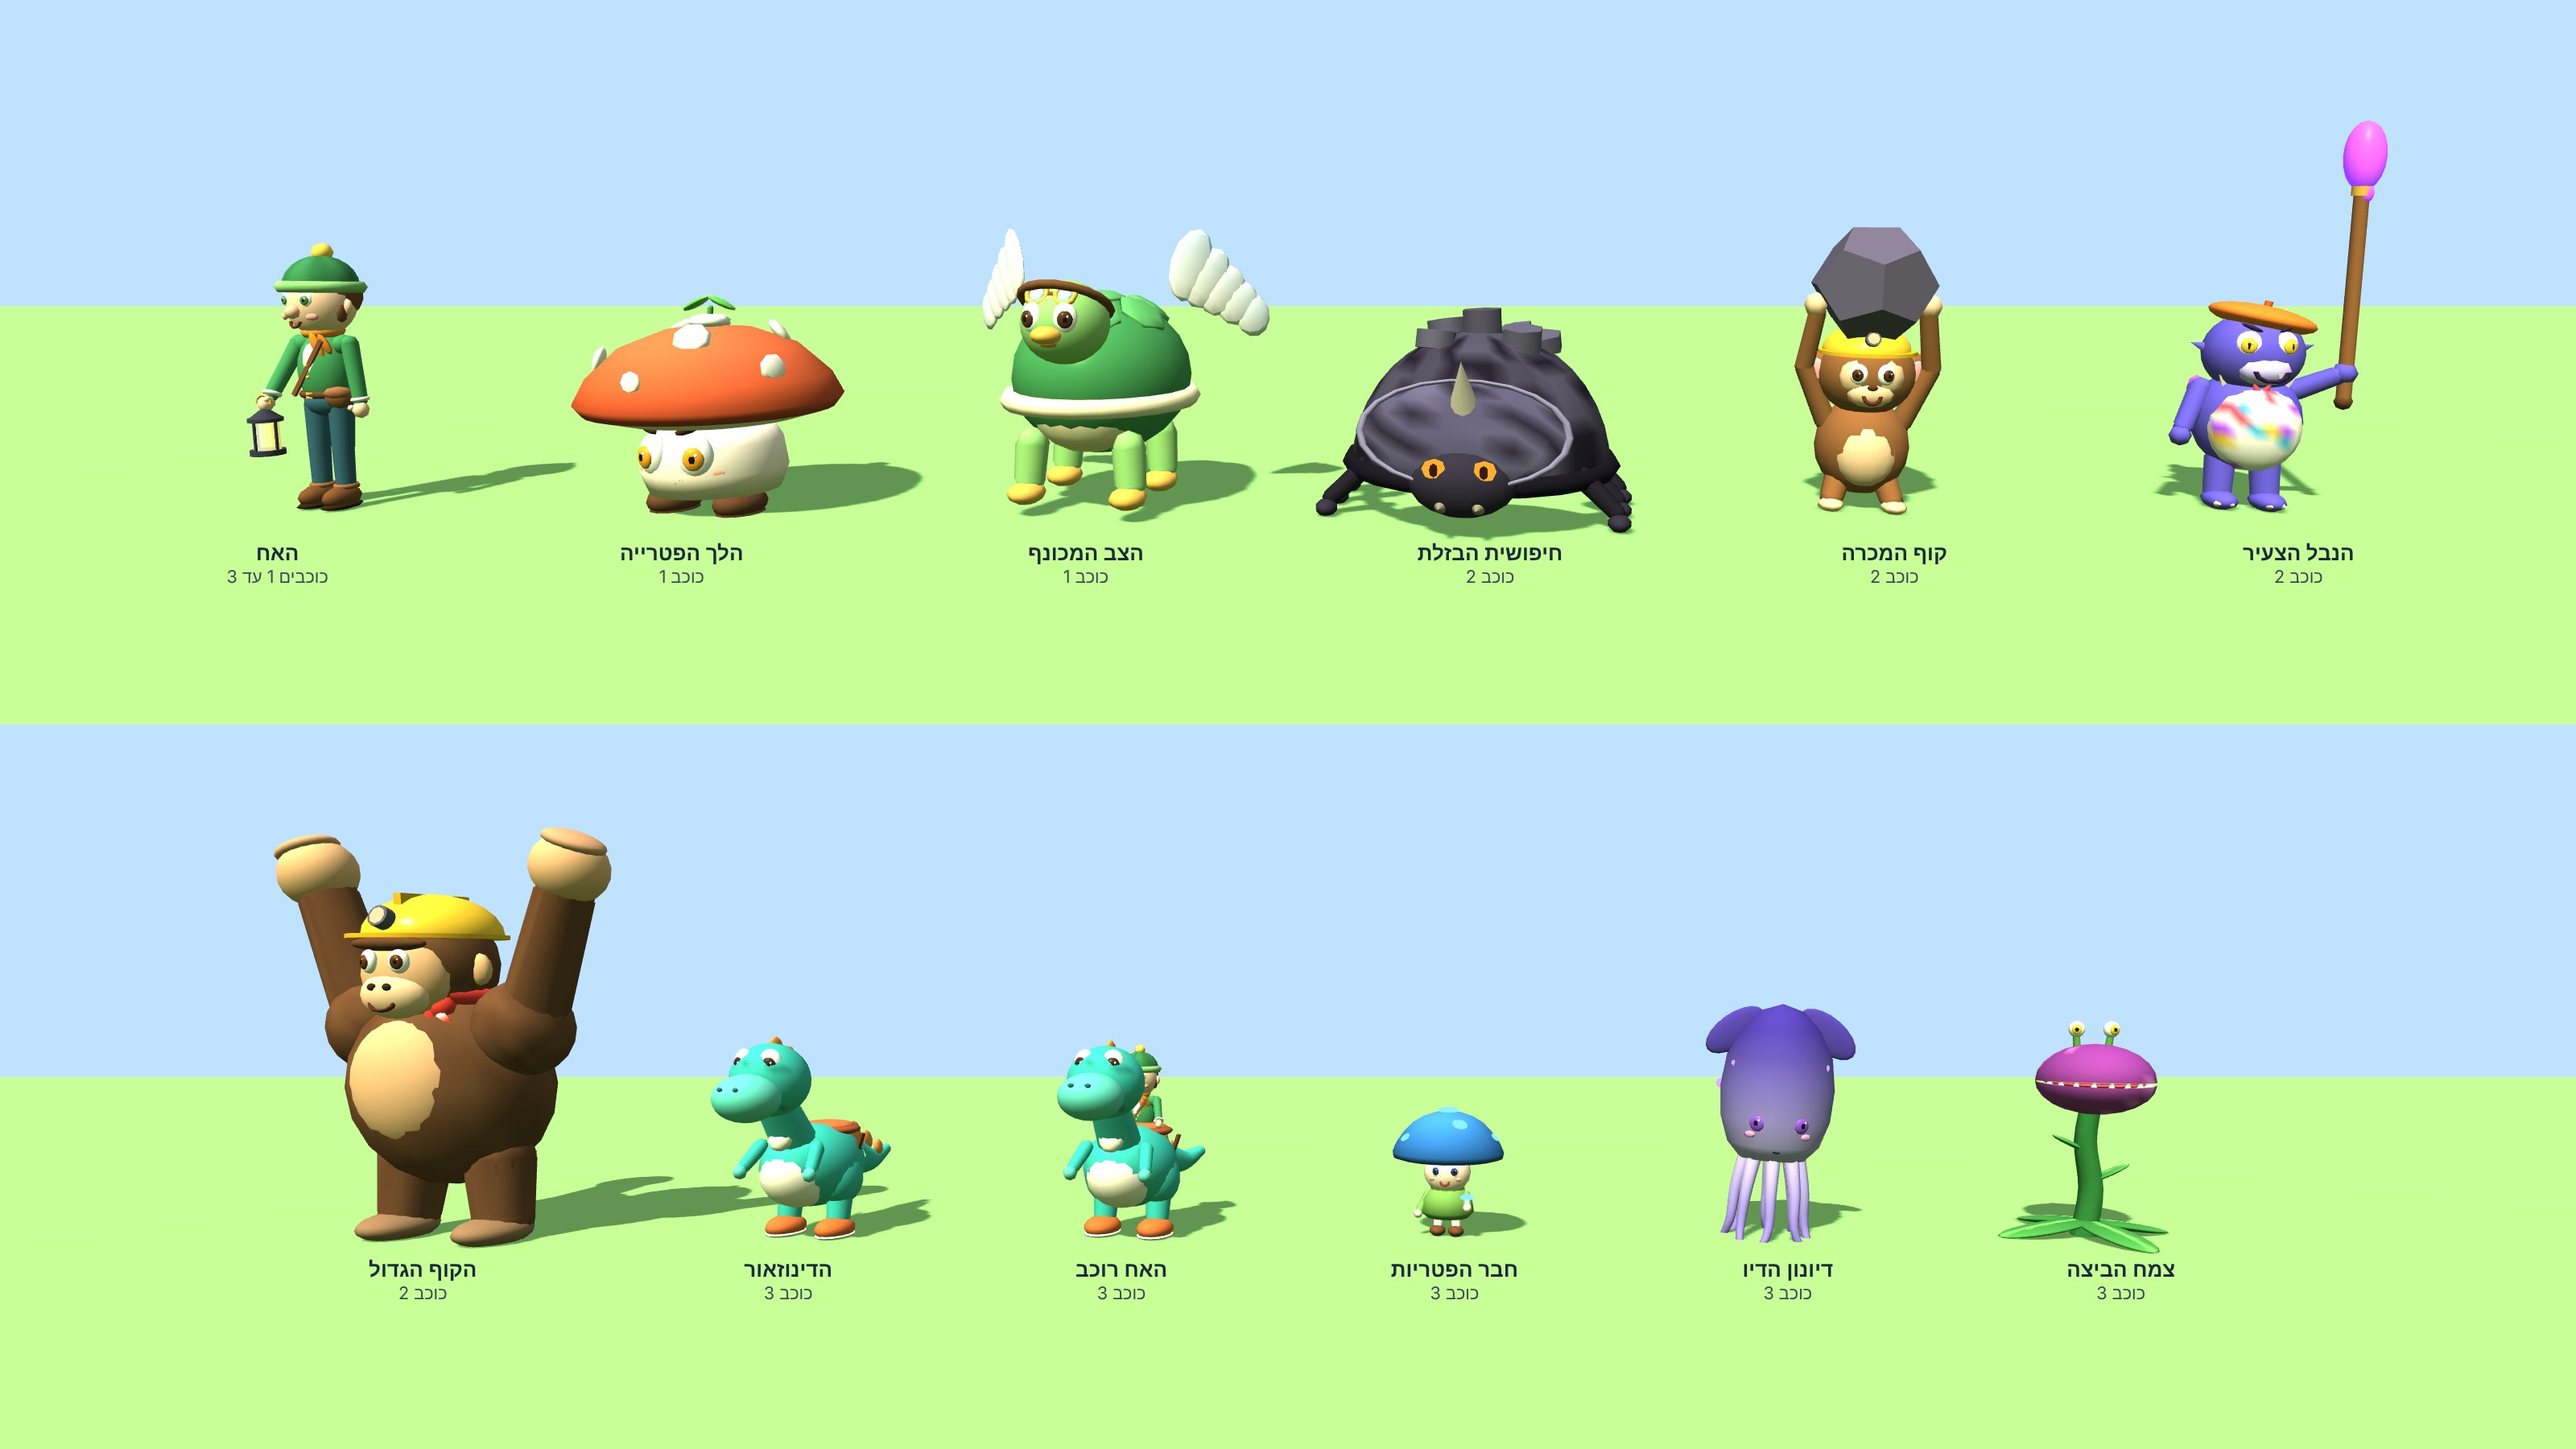
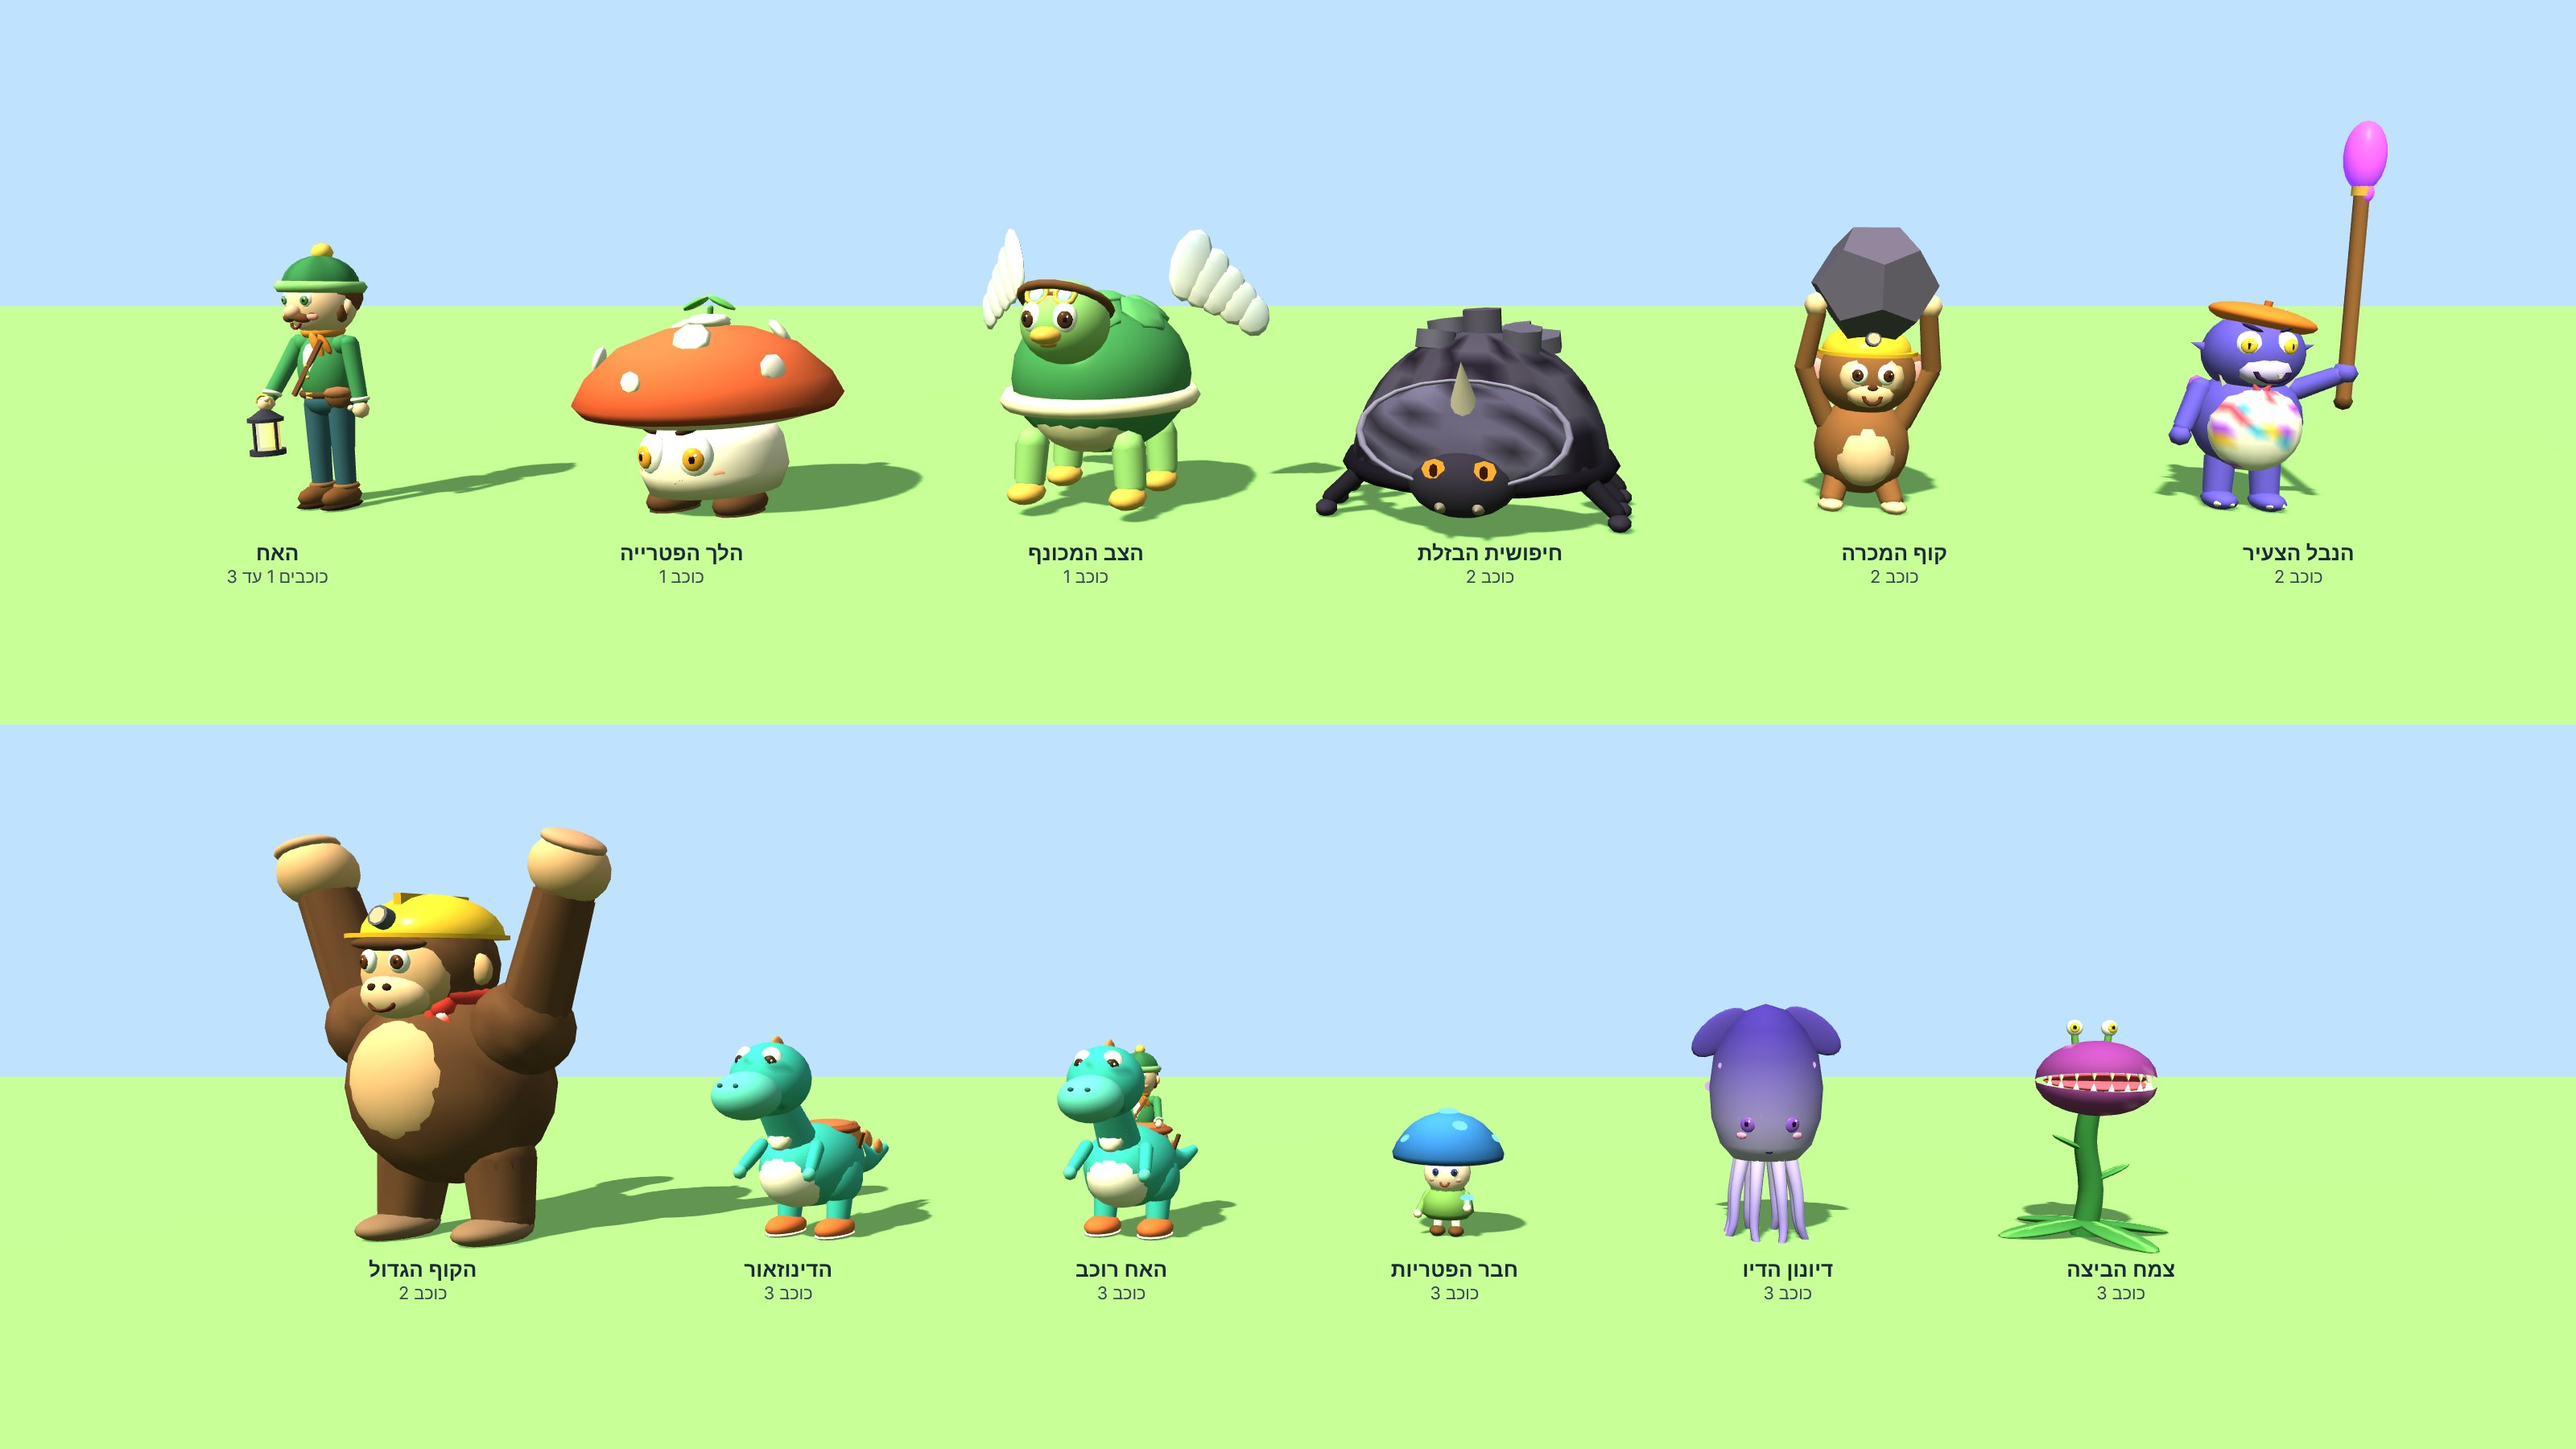
The brother gets a mustache: two full brown lobes with tips curling up
Merged into his head part, so no extra draw call (about 540 more triangles;
the busiest frame, the balcony on star 1, is at 344 thousand). The installed
models keep showing where they exist, the code characters everywhere else.
All six checks pass; frames and lineup updated.

Claude-Session: https://claude.ai/code/session_01KSroyKjfuS2ctqZezFZ6EX

diff --git a/js/characters.js b/js/characters.js
@@ -322,8 +322,9 @@ const Characters = (() => {
   }
 
   // ============================================================
-  // the brother: tall and lanky, knitted green beanie with a pompom, a green jacket over a
-  // cream shirt, an orange scarf, teal trousers, laced boots, a satchel and his lantern
+  // the brother: tall and lanky, knitted green beanie with a pompom, a brown mustache with
+  // curled tips, a green jacket over a cream shirt, an orange scarf, teal trousers, laced
+  // boots, a satchel and his lantern
   // ============================================================
   const SKIN = 0xf7c9a0;
   function brother(o) {
@@ -367,7 +368,12 @@ const Characters = (() => {
     const head = group(inner, 0, 1.45, 0);
     part()
       .ball(SKIN, { at: [0, 0.17, 0], size: [0.24, 0.255, 0.23], seg: [20, 14] })
-      .ball(0xf2b48c, { at: [0, 0.115, 0.235], size: [0.06, 0.055, 0.055] })
+      .ball(0xf2b48c, { at: [0, 0.115, 0.235], size: [0.06, 0.055, 0.055], seg: [12, 8] })
+      // mustache: two full brown lobes under the nose, the tips curling up
+      .ball(hair, { at: [-0.054, 0.07, 0.218], size: [0.07, 0.036, 0.035], rot: [0, -0.35, 0.22], seg: [12, 8] })
+      .ball(hair, { at: [0.054, 0.07, 0.218], size: [0.07, 0.036, 0.035], rot: [0, 0.35, -0.22], seg: [12, 8] })
+      .ball(hair, { at: [-0.116, 0.088, 0.186], size: [0.034, 0.022, 0.022], rot: [0, -0.7, -0.6] })
+      .ball(hair, { at: [0.116, 0.088, 0.186], size: [0.034, 0.022, 0.022], rot: [0, 0.7, 0.6] })
       .ball(SKIN, { at: [-0.235, 0.14, -0.01], size: [0.045, 0.065, 0.035] }).ball(SKIN, { at: [0.235, 0.14, -0.01], size: [0.045, 0.065, 0.035] })
       .ball(hair, { at: [0, 0.22, -0.05], size: [0.25, 0.21, 0.225] })
       .ball(hair, { at: [-0.21, 0.1, 0.02], size: [0.04, 0.08, 0.05] }).ball(hair, { at: [0.21, 0.1, 0.02], size: [0.04, 0.08, 0.05] })
@@ -376,7 +382,7 @@ const Characters = (() => {
       .dome((p, l) => Math.sin(Math.atan2(l.x, l.z) * 14) > 0.2 ? 0x2c6b3a : 0x347a44, { at: [0, 0.29, -0.01], size: [0.255, 0.24, 0.245], seg: [20, 6] })
       .torus((p, l) => Math.sin(Math.atan2(l.y, l.x) * 20) > 0 ? 0x8cc475 : 0x7ab866, { at: [0, 0.29, -0.01], rot: [Math.PI / 2 - 0.06, 0, 0], size: [0.25, 0.245, 0.25], tube: 0.2 })
       .ball(0xf2c94c, { at: [0, 0.55, -0.04], size: 0.075 })
-      .torus(0x6a2a20, { at: [0, 0.04, 0.218], rot: [-0.25, 0, Math.PI], size: 0.045, tube: 0.25, arc: Math.PI })
+      .torus(0x6a2a20, { at: [0, 0.028, 0.214], rot: [-0.25, 0, Math.PI], size: 0.042, tube: 0.25, arc: Math.PI })
       .ball(0xf29a8a, { at: [-0.13, 0.075, 0.19], size: [0.045, 0.028, 0.02], rot: [0, -0.6, 0] })
       .ball(0xf29a8a, { at: [0.13, 0.075, 0.19], size: [0.045, 0.028, 0.02], rot: [0, 0.6, 0] })
       .ball(hair, { at: [-0.09, 0.3, 0.205], size: [0.05, 0.014, 0.016], rot: [0, -0.3, 0.18] })

diff --git a/tools/lineup.html b/tools/lineup.html
@@ -64,6 +64,7 @@ if (only) {               // frame the one character by its bounding box
   const b = new THREE.Box3().setFromObject(items[0].g), c = b.getCenter(new THREE.Vector3()), h = Math.max(b.max.y - b.min.y, (b.max.x - b.min.x) * 0.9);
   const d = h / (2 * Math.tan(15 * Math.PI / 180)) * 1.25;
   camera.position.set(c.x, c.y + h * 0.15, c.z + d); camera.lookAt(c);
+  if (q.has("face")) { const fy = b.max.y - h * 0.16; camera.position.set(c.x - h * 0.12, fy + h * 0.03, c.z + h * 0.75); camera.lookAt(c.x, fy, c.z); }
 }
 else { camera.fov = 30; camera.position.set(0, 2.4, 13.5); camera.lookAt(0, 1.35, 0); }
 const labels = document.getElementById("labels");

diff --git a/tools/lineup.js b/tools/lineup.js
@@ -2,6 +2,7 @@
 // A picture of every character built in code (js/characters.js), side by side.
 //   node tools/lineup.js                 -> docs/frames/characters-lineup.jpg
 //   node tools/lineup.js brother side    -> one character, from the side (tools/out/lineup-brother-side.png)
+//   node tools/lineup.js brother face    -> one character's face up close
 const path = require("path");
 const H = require("./harness");
 

diff --git a/docs/characters.md b/docs/characters.md
@@ -10,7 +10,7 @@ Moshe's decision (21.11.2026): the characters are improved with what the game al
 
 | Character | Builder | Where | Look | Parts the level moves |
 |---|---|---|---|---|
-| The brother | `brother({ height, lantern, lit, sit })` | stars 1 to 3 (on star 3 he is the player) | tall and lanky, knitted green beanie with a pompom, green jacket over a cream shirt, orange scarf, satchel, teal trousers, laced boots, a lantern in his left hand | `g`, `armR` / `armL` (shoulder: waving, the lever), `lantern`, `bulb`, `glass` |
+| The brother | `brother({ height, lantern, lit, sit })` | stars 1 to 3 (on star 3 he is the player) | tall and lanky, knitted green beanie with a pompom, a brown mustache with curled tips, green jacket over a cream shirt, orange scarf, satchel, teal trousers, laced boots, a lantern in his left hand | `g`, `armR` / `armL` (shoulder: waving, the lever), `lantern`, `bulb`, `glass` |
 | Mushroom walker | `mushroomWalker()` | star 1 | rust cap shading darker toward the rim, cream spots, a leaf sprout, amber eyes, grumpy brows, waddling feet | `g`, `body`, `bang` |
 | Winged turtle | `wingedTurtle()` | star 1 | glossy shell with raised plates and a cream rim, aviator goggles, two-part beak, wings that fan out to the side; stars over its head while dazed | `g`, `body`, `wings[].w`, `shadow`, `ring`, `dazed` |
 | Basalt beetle | `basaltBeetle({ crackMat })` | star 2 | a dome of basalt columns (hexagon pattern), a front shield with a horn, glowing eyes, six legs in two tripods; stars while it is stuck | `g`, `body`, `back` (the glowing cracks), `dazed` |
@@ -40,9 +40,9 @@ Measured with `node tools/char-frames.js` (headless, software rendering; the num
 
 | Character | Own draw calls, before → after | Own triangles, before → after | Frame triangles, before → after |
 |---|---|---|---|
-| Brother, star 1 (balcony) | 16 → 13 | 1,000 → 6,176 | 338k → 343k |
-| Brother, star 2 | 8 → 12 | 380 → 5,924 | 188k → 188k |
-| Brother, star 3 (the player) | 5 → 9 | 276 → 5,480 | 293k → 298k |
+| Brother, star 1 (balcony) | 16 → 13 | 1,000 → 6,716 | 338k → 344k |
+| Brother, star 2 | 8 → 12 | 380 → 6,464 | 188k → 188k |
+| Brother, star 3 (the player) | 5 → 9 | 276 → 6,020 | 293k → 298k |
 | Mushroom walker | 22 → 5 | 2,760 → 3,594 | 309k → 317k |
 | Winged turtle | 29 → 9 | 3,586 → 5,516 | 306k → 313k |
 | Basalt beetle | 16 → 7 | 1,104 → 3,200 | 206k → 206k |
@@ -52,6 +52,6 @@ Measured with `node tools/char-frames.js` (headless, software rendering; the num
 
 With `?models=code` (installed model → code version): big ape 1 → 7 draw calls and 704 → 8,700 triangles, dinosaur 2 → 7 and 687 → 6,574, mushroom friend 1 → 3 and 14,458 → 3,654, swamp plant 15 → 5 and 794 → 4,378.
 
-The busiest frame is still the balcony on star 1 at 343 thousand triangles and 170 draw calls. Draw calls went down for most characters; triangles went up by 2 to 5 thousand per character, which buys the round shapes and the faces. Frame rate on a real phone has not been measured.
+The brother's mustache (22.11.2026) added about 540 triangles and no draw call. The busiest frame is still the balcony on star 1 at 344 thousand triangles and 170 draw calls. Draw calls went down for most characters; triangles went up by 2 to 5 thousand per character, which buys the round shapes and the faces. Frame rate on a real phone has not been measured.
 
 The frame budget is 350 draw calls and 350 thousand triangles (`docs/performance-rules.md`).
